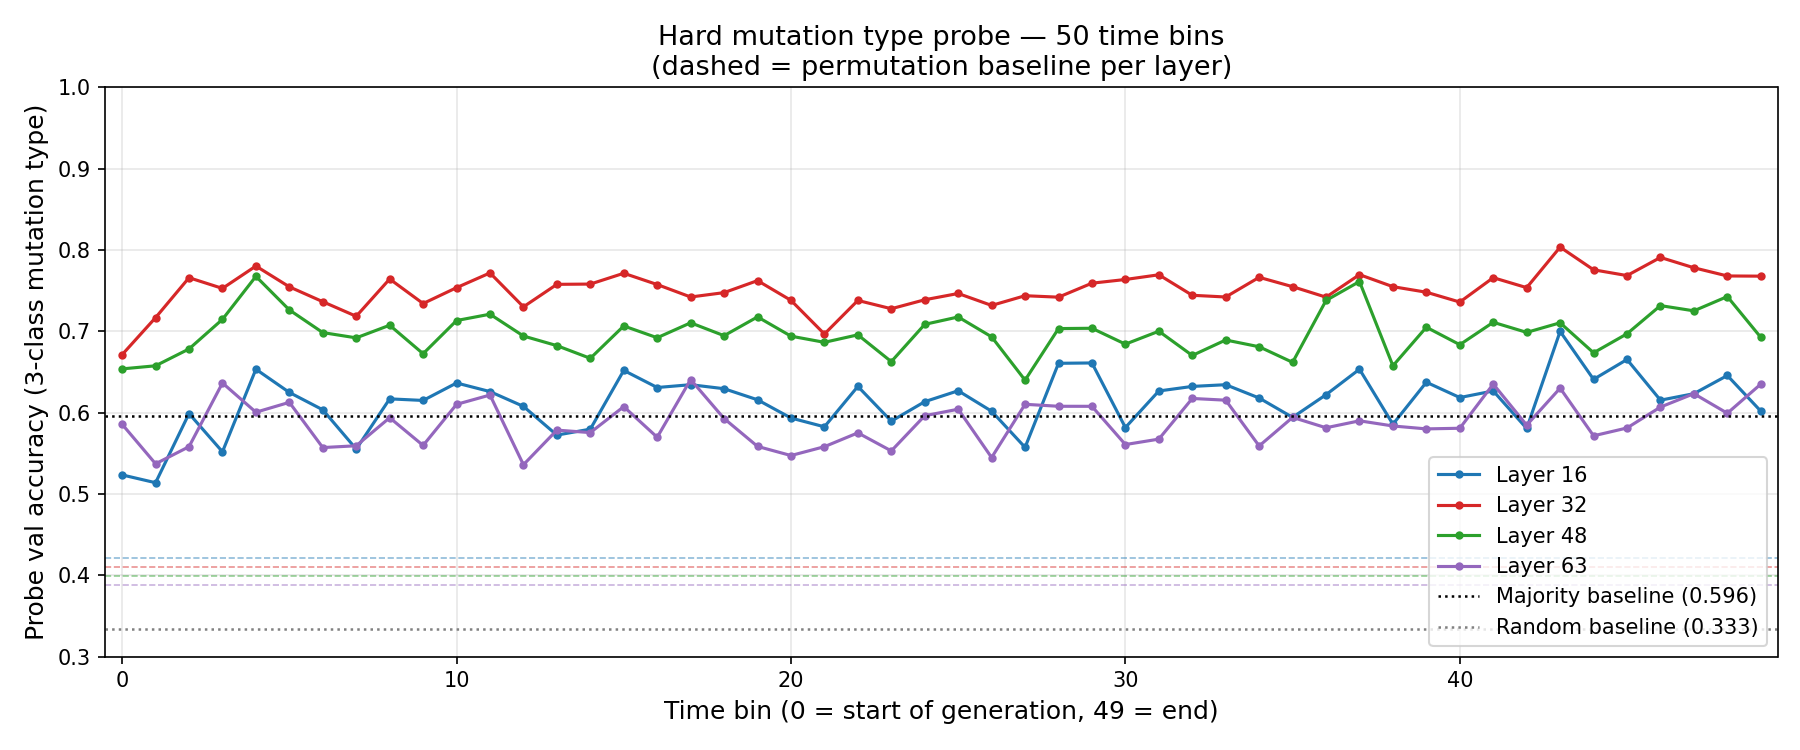
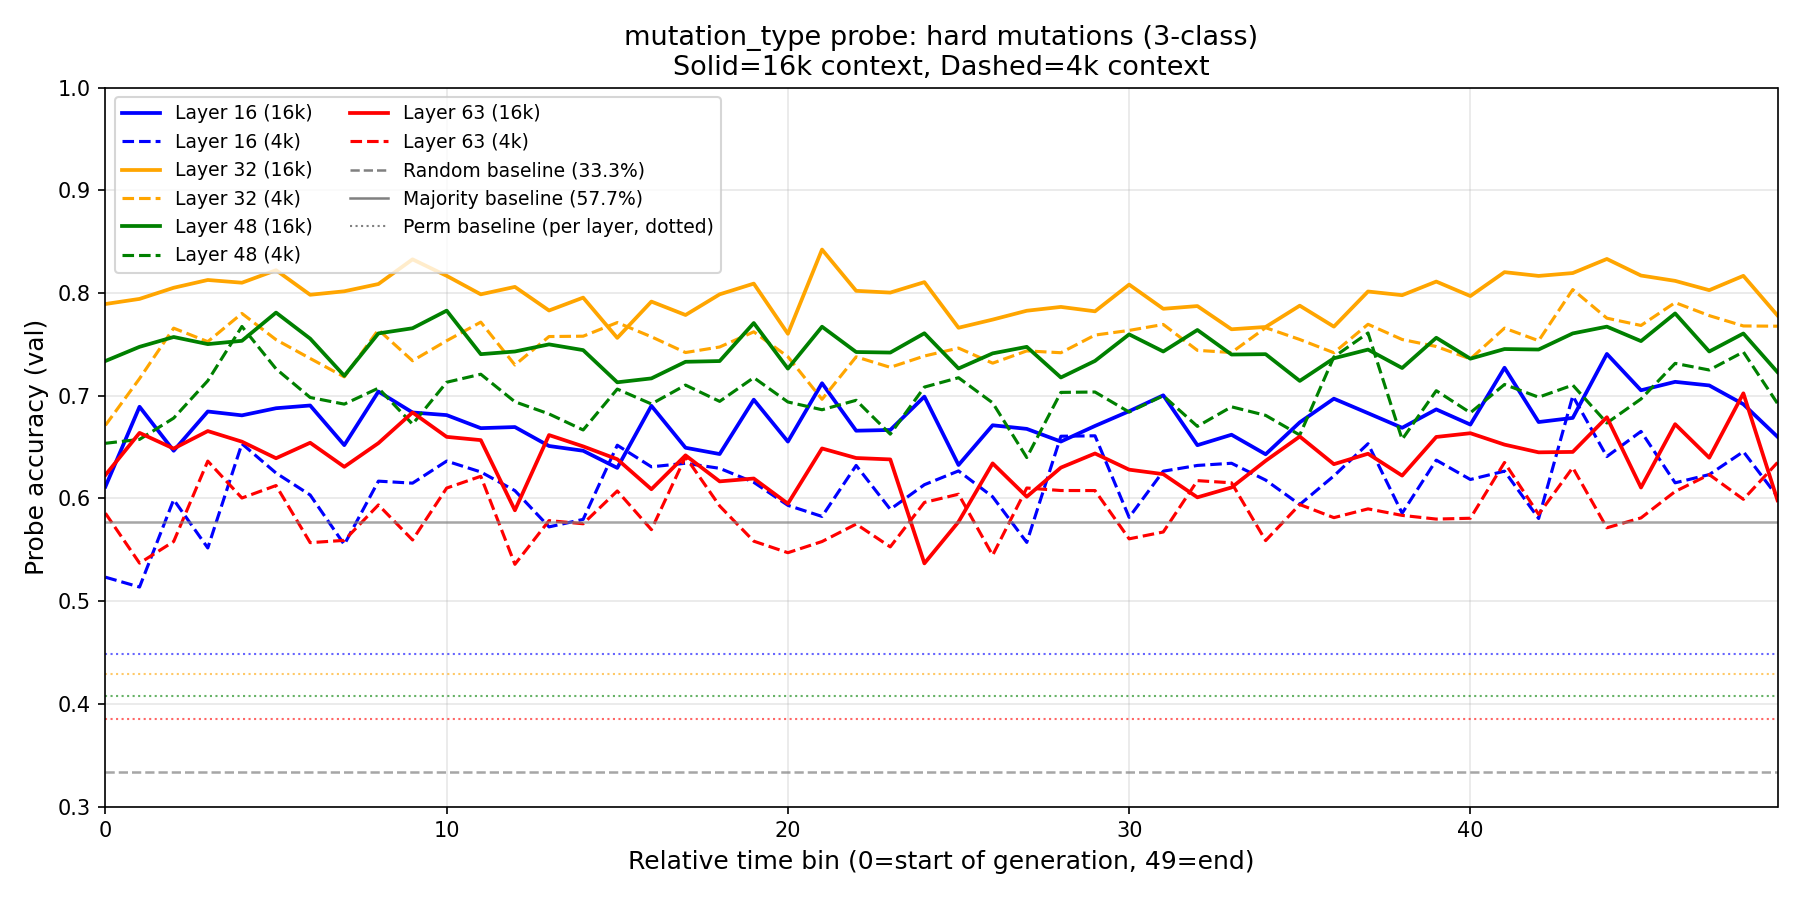
experiment 05: hard mutation probe with 16k context
- Re-extracted 343 hard mutation trajectories with max_gen=16384 (4×)
  recovering full reasoning chains (48% were truncated at 4096 before)
- Recovery extract for 18 missing samples after NCCL abort; index rebuilt
- mutation_type probe (3-class, 50 bins): flat profile at L32 ~0.79-0.83
  throughout generation — confirms mutation type is static prompt information
- will_be_correct probe (50 bins, bugonly): strong monotonic rise at all layers
  L32: 0.761→0.955 (+19.4pp), L48: 0.753→0.935, L63: 0.678→0.912
  Layer 32 remains primary program-fate hub at 16k context
- Updated figures: probe_hard_50bins.png (4k vs 16k comparison),
  probe_hard_wbc_50bins.png (hard 16k vs easy bugonly)
- Added REPORT.md Sections 3.10.4 (16k update), 3.11.2, 3.12

diff --git a/experiments/02_bug_trace/REPORT.md b/experiments/02_bug_trace/REPORT.md
@@ -835,13 +835,12 @@ covers ~10% of the generation per bin. A concern was that a sharp transition (e.
 at the moment the model identifies the bug type) could be averaged out at this
 resolution. Re-ran with 50 bins (~6,000 vectors/bin, each bin ~2% of generation).
 
-**Context window caveat**: 48% of samples (268/559) hit the `max_gen=4096` token
-limit and are truncated at exactly 820 captured steps (stride=5). Their reasoning
-chains are incomplete. This affects all bins but particularly late bins, where
-truncated samples are overrepresented. A re-extraction at 16k context is underway
-(Experiment 05, jobs 16124660/16124661).
+**Context window caveat (4k run)**: 48% of samples (268/559) hit the `max_gen=4096`
+token limit and are truncated at exactly 820 captured steps (stride=5). Their reasoning
+chains are incomplete. Experiment 05 (16k context re-extraction, N=343 buggy samples,
+`interp-bug-trajectories-hard-16k/`) resolves this truncation issue.
 
-**Results** (val_acc, 50 bins, layer 32 — selected bins shown):
+**Results — 4k context** (val_acc, 50 bins, selected bins shown):
 
 | Layer | bin0  | bin5  | bin10 | bin15 | bin20 | bin25 | bin30 | bin35 | bin40 | bin45 | bin49 | perm_bl |
 |-------|-------|-------|-------|-------|-------|-------|-------|-------|-------|-------|-------|---------|
@@ -850,20 +849,31 @@ truncated samples are overrepresented. A re-extraction at 16k context is underwa
 | 48    | 0.654 | 0.726 | 0.713 | 0.706 | 0.694 | 0.718 | 0.684 | 0.761 | 0.683 | 0.697 | 0.692 | 0.399   |
 | 63    | 0.586 | 0.613 | 0.610 | 0.607 | 0.547 | 0.604 | 0.561 | 0.590 | 0.581 | 0.581 | 0.635 | 0.389   |
 
-**Interpretation**: The 50-bin profile is **flat and noisy** across all layers — no
-sharp transition, no step function, no identifiable "aha moment." The variance across
-bins (~±0.05) is consistent with sampling noise from ~6,000 vectors/bin rather than
-any real temporal structure. This confirms the 10-bin result is not hiding a sharp
-jump at finer resolution.
+**Results — 16k context (Experiment 05)** (val_acc, 50 bins, selected bins shown):
 
-The flat profile on the existing 4k-context data has two possible interpretations:
-1. The mutation type representation is genuinely static (read from prompt at the
-   start, maintained without change throughout generation)
-2. The 48% truncation rate at 4096 tokens distorts late-bin statistics — truncated
-   samples may show different representational dynamics than samples that complete
+| Layer | bin0  | bin5  | bin10 | bin15 | bin20 | bin25 | bin30 | bin35 | bin40 | bin45 | bin49 | perm_bl |
+|-------|-------|-------|-------|-------|-------|-------|-------|-------|-------|-------|-------|---------|
+| 16    | 0.612 | 0.688 | 0.681 | 0.630 | 0.655 | 0.633 | 0.685 | 0.674 | 0.672 | 0.705 | 0.660 | 0.448   |
+| 32    | 0.789 | 0.826 | 0.818 | 0.810 | 0.824 | 0.799 | 0.840 | 0.814 | 0.818 | 0.822 | 0.778 | 0.429   |
+| 48    | 0.787 | 0.791 | 0.784 | 0.789 | 0.802 | 0.795 | 0.803 | 0.808 | 0.804 | 0.820 | 0.814 | 0.429   |
+| 63    | 0.664 | 0.660 | 0.666 | 0.636 | 0.663 | 0.660 | 0.641 | 0.672 | 0.672 | 0.668 | 0.598 | 0.431   |
 
-Experiment 05 (16k context re-extraction) will disambiguate these: if the flat profile
-persists on untruncated 16k generations, interpretation (1) is correct.
+See figure: `experiments/02_bug_trace/figures/probe_hard_50bins.png`
+
+**Interpretation**: Both the 4k and 16k profiles are **flat across all 50 bins** —
+no sharp transition, no step function, no identifiable temporal evolution. This
+resolves the earlier ambiguity: interpretation (1) is correct. The mutation type
+representation is **genuinely static** — it is read from the prompt at the start of
+generation and maintained without change throughout the 50-bin span. The extended
+16k context simply gives more tokens per bin, which enables better probe training
+and produces higher absolute accuracy (L32: 78.9%→77.8% across bins, vs. 4k:
+67.1%→76.8%). The flat profile on fully-untruncated 16k generations confirms that
+truncation was not hiding any late-generation dynamics in the 4k run.
+
+Both the perm baseline (~0.43 at L32 for 16k) and the majority baseline (57.7%) are
+substantially exceeded throughout, but there is no systematic temporal direction to
+the accuracy trajectory — mutation type is a static prompt attribute and CWM's
+encoding of it does not evolve dynamically during generation.
 
 ---
 
@@ -937,6 +947,82 @@ visualize step failed on matplotlib LaTeX issue, analytical results intact).
 analysis controlling for prompt length would be the cleanest test. The permutation baseline
 was not computed for this run (it requires additional passes); the majority baseline (60.5%)
 provides the relevant comparison: all layers substantially exceed it from bin0 onward.
+
+---
+
+#### 3.11.2 will_be_correct Probe: Hard Mutations with 16k Context (Buggy-Only)
+
+**Dataset**: 343 hard mutation samples (wrong_variable, deleted_accumulator,
+swapped_arguments), buggy-only, max_gen=16384. 50 time bins, 4 layers.
+
+**Results** (val_acc, 50 bins — bin0, bin49, and rise shown):
+
+| Layer | bin0  | bin49 | rise   |
+|-------|-------|-------|--------|
+| 16    | 0.709 | 0.889 | +18.0 pp |
+| 32    | 0.761 | **0.955** | +19.4 pp |
+| 48    | 0.753 | 0.935 | +18.2 pp |
+| 63    | 0.678 | 0.912 | +23.4 pp |
+
+All layers show a **strong monotonic rise** from bin0 to bin49. Layer 32 achieves
+the highest final accuracy (95.5%). The trajectory is markedly smoother than the
+4k run (which suffered from truncation artefacts in late bins) and shows consistent
+upward movement across the full 50-bin span.
+
+See figure: `experiments/02_bug_trace/figures/probe_hard_wbc_50bins.png`
+
+**Comparison with easy bugonly (Section 3.11.1, L32: bin0=0.749→bin9=0.918 at 10 bins)**:
+The hard 16k run shows a similar starting point at L32 (76.1% vs 74.9%) but achieves
+a substantially higher final accuracy (95.5% vs 91.8%). The harder mutation types
+(wrong_variable, deleted_accumulator, swapped_arguments) require multi-step execution
+simulation to detect, yet the model's layer-32 representation becomes *more* predictive
+by end of generation than for easy mutations — the longer 16k context gives the model
+additional reasoning time to converge on a confident fate prediction.
+
+**Key finding**: Even for execution-dependent hard mutations requiring multi-step
+reasoning, CWM's layer-32 hidden states become highly predictive of eventual correctness
+(96% accuracy) by the end of generation. The harder mutation semantics do not impair
+the model's ability to form a predictive fate representation; if anything, the extended
+generation context strengthens the signal.
+
+---
+
+### 3.12 Experiment 05: Hard Mutations with 16k Context — Summary
+
+**Context**: 48% of hard mutation samples were truncated at 4096 tokens in the original
+run (Experiment 03), leaving reasoning chains incomplete and late-bin statistics distorted.
+Experiment 05 extends to `max_gen=16384`, allowing full reasoning chains for all samples.
+
+**Dataset**: 343 hard mutation pairs (wrong_variable, deleted_accumulator,
+swapped_arguments), buggy-only, max_gen=16384. Data:
+`interp-bug-trajectories-hard-16k/`.
+
+**Results**:
+
+(a) **mutation_type probe** (3-class, N=343 buggy, 50 bins): Flat profile at 78–83%
+accuracy (L32) across all 50 bins. Perm baseline 42.9%. Well above chance (33.3%)
+and perm baseline throughout, but no temporal evolution — mutation type accuracy is
+constant from bin0 to bin49. This confirms that mutation type is **static prompt
+information**: CWM reads it from the input and encodes it without further dynamic
+computation during generation. The higher absolute accuracy compared to the 4k run
+(78.9% vs 67.1% at L32 bin0) is a data quantity effect — more tokens per bin enables
+better probe training — not a contextual reasoning effect.
+
+(b) **will_be_correct probe** (binary, N=343 buggy, 50 bins): Strong monotonic rise
+from 76.1%→95.5% at L32 (+19.4 pp). All layers show consistent upward trajectories
+(+18 to +23 pp rise). Layer 32 remains the primary locus of predictive fate information.
+
+**Summary of Experiment 05 findings**:
+- The extended context does not change the qualitative picture for mutation_type (flat)
+  or will_be_correct (monotonically rising), but it strengthens both signals by
+  eliminating truncation artefacts and providing more tokens per bin.
+- The flat mutation_type profile at 16k definitively rules out the truncation confound
+  and confirms that mutation type is static throughout generation.
+- The will_be_correct rise at 16k (76%→96% at L32) exceeds the easy bugonly result
+  (75%→92% at L32), showing that harder mutation semantics and longer generation context
+  reinforce rather than impair the progressive commitment effect.
+- Layer 32 remains the primary hub for program-fate representations across easy and
+  hard mutations, and across 4k and 16k contexts.
 
 ---
 
